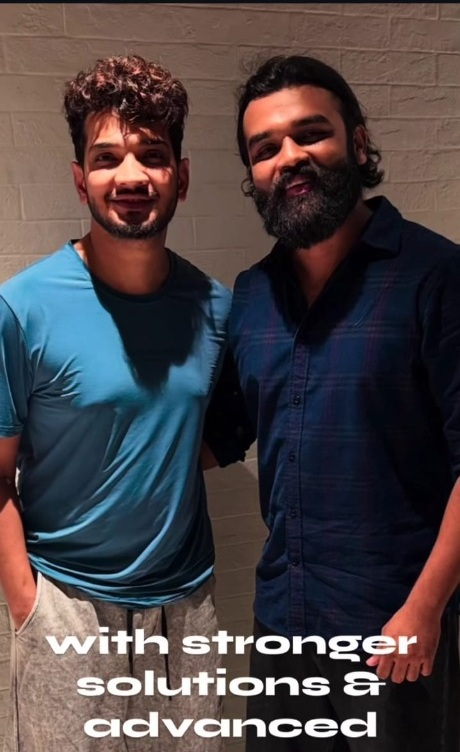
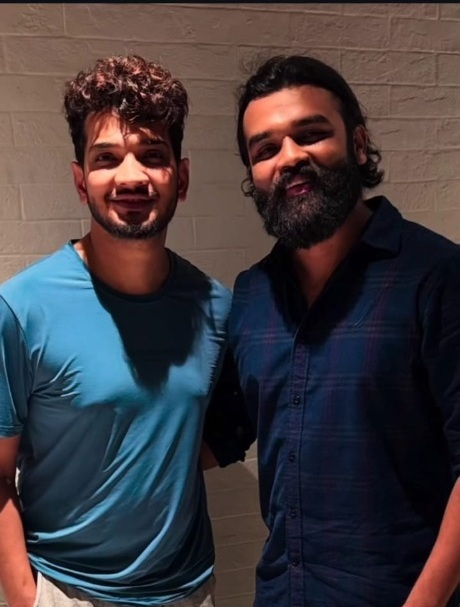
final

diff --git a/src/components/Outcomes.tsx b/src/components/Outcomes.tsx
@@ -11,7 +11,7 @@ export default function Outcomes() {
   ]
 
   return (
-    <section id="gallery" className="min-h-screen py-section-gap px-container-margin bg-surface">
+    <section id="gallery" className="min-h-screen py-section-gap px-4 sm:px-container-margin bg-surface">
       <div className="grid grid-cols-12 gap-gutter max-w-[1600px] mx-auto w-full">
         
         {/* Content Side */}
@@ -45,8 +45,8 @@ export default function Outcomes() {
         </div>
 
         {/* Mosaic Masked Grid Side */}
-        <div className="col-span-12 lg:col-span-8 lg:pl-12 mt-12 lg:mt-0">
-          <div className="grid grid-cols-2 gap-unit h-[600px] lg:h-[819px] relative">
+        <div className="col-span-12 lg:col-span-8 lg:pl-12 mt-10 lg:mt-0">
+          <div className="grid grid-cols-1 md:grid-cols-2 gap-3 md:gap-unit h-auto md:h-[600px] lg:h-[819px] relative">
             
             {/* Main Window */}
             <motion.div 
@@ -54,7 +54,7 @@ export default function Outcomes() {
               whileInView={{ opacity: 1, scale: 1 }}
               viewport={{ once: true }}
               transition={{ duration: 0.7, delay: 0.2 }}
-              className="bg-surface relative overflow-hidden col-span-2 md:col-span-1 border border-outline-variant/20 group"
+              className="bg-surface relative overflow-hidden col-span-1 border border-outline-variant/20 group h-[250px] md:h-auto"
             >
               <div 
                 className="w-full h-full bg-cover bg-center transform group-hover:scale-105 transition-transform duration-1000"
@@ -67,13 +67,13 @@ export default function Outcomes() {
             </motion.div>
 
             {/* Side Grid Stack */}
-            <div className="grid grid-rows-2 gap-unit h-full col-span-2 md:col-span-1">
+            <div className="grid grid-rows-2 gap-3 md:gap-unit h-auto md:h-full col-span-1">
               <motion.div 
                 initial={{ opacity: 0, y: 30 }}
                 whileInView={{ opacity: 1, y: 0 }}
                 viewport={{ once: true }}
                 transition={{ duration: 0.6, delay: 0.3 }}
-                className="bg-surface relative overflow-hidden border border-outline-variant/20 group"
+                className="bg-surface relative overflow-hidden border border-outline-variant/20 group min-h-[200px] md:min-h-0"
               >
                 <div 
                   className="w-full h-full bg-cover bg-center grayscale opacity-80 group-hover:grayscale-0 group-hover:opacity-100 transition-all duration-700" 
@@ -87,7 +87,7 @@ export default function Outcomes() {
                 whileInView={{ opacity: 1, y: 0 }}
                 viewport={{ once: true }}
                 transition={{ duration: 0.6, delay: 0.4 }}
-                className="bg-surface-container-lowest relative overflow-hidden border border-outline-variant/20 flex items-center justify-center p-8 text-center group hover:bg-surface-container-high transition-colors duration-300"
+                className="bg-surface-container-lowest relative overflow-hidden border border-outline-variant/20 flex items-center justify-center p-6 md:p-8 text-center group hover:bg-surface-container-high transition-colors duration-300 min-h-[180px] md:min-h-0"
               >
                 <div>
                   <Activity className="w-12 h-12 text-primary mb-4 mx-auto opacity-70 group-hover:opacity-100 group-hover:scale-110 transition-all duration-300" strokeWidth={1} />

diff --git a/src/components/Hero.tsx b/src/components/Hero.tsx
@@ -13,7 +13,7 @@ export default function Hero() {
   ]
 
   return (
-    <section id="services" className="min-h-screen relative flex flex-col justify-between pt-32 pb-container-margin px-container-margin overflow-hidden">
+    <section id="services" className="min-h-screen relative flex flex-col justify-between pt-24 md:pt-32 pb-container-margin px-4 sm:px-container-margin overflow-hidden">
       {/* Background Image with Parallax */}
       <div className="absolute inset-0 z-0">
     <motion.div style={{ y }} className="absolute inset-0 w-full h-[120%]">
@@ -27,8 +27,8 @@ export default function Hero() {
       
       {/* Overlay */}
       
-      <div className="relative z-10 grid grid-cols-12 gap-gutter mt-16 md:mt-32 max-w-[1600px] mx-auto w-full">
-        <div className="col-span-12 md:col-span-8 lg:col-span-6">
+      <div className="relative z-10 grid grid-cols-1 md:grid-cols-12 gap-gutter mt-12 md:mt-32 max-w-[1600px] mx-auto w-full">
+        <div className="col-span-1 md:col-span-8 lg:col-span-6">
           <motion.div
             initial={{ opacity: 0, y: 30 }}
             animate={{ opacity: 1, y: 0 }}
@@ -46,7 +46,7 @@ export default function Hero() {
       </div>
 
       {/* Bento Grid Features */}
-       <div className="relative z-10 grid grid-cols-1 md:grid-cols-3 gap-unit mt-16 max-w-[1600px] mx-auto w-full">
+       <div className="relative z-10 grid grid-cols-1 md:grid-cols-3 gap-3 md:gap-unit mt-12 md:mt-16 max-w-[1600px] mx-auto w-full">
         {features.map((feature, idx) => (
           <motion.div
             key={feature.number}
@@ -54,7 +54,7 @@ export default function Hero() {
             whileInView={{ opacity: 1, y: 0 }}
             viewport={{ once: true }}
             transition={{ delay: 0.4 + idx * 0.1, duration: 0.6 }}
-            className="glass-panel p-6 border border-outline-variant/30 flex justify-between items-end h-32 hover:bg-surface-container-high transition-colors group cursor-pointer"
+            className="glass-panel p-4 md:p-6 border border-outline-variant/30 flex justify-between items-end h-24 md:h-32 hover:bg-surface-container-high transition-colors group cursor-pointer"
           >
             <div>
               <span className="block font-label-caps text-on-surface-variant mb-2">{feature.number}</span>

diff --git a/src/components/About.tsx b/src/components/About.tsx
@@ -5,7 +5,7 @@ import image2 from '../assets/image2.jpg'
 
 export default function About() {
   return (
-    <section id="about" className="min-h-screen relative py-section-gap px-container-margin flex flex-col justify-center bg-surface-container-lowest overflow-hidden">
+    <section id="about" className="min-h-screen relative py-section-gap px-4 sm:px-container-margin flex flex-col justify-center bg-surface-container-lowest overflow-hidden">
       <div className="grid grid-cols-12 gap-gutter relative z-10 max-w-[1600px] mx-auto w-full items-center">
         
         {/* Text Content */}
@@ -46,7 +46,7 @@ export default function About() {
         </div>
 
         {/* Overlapping Images */}
-        <div className="col-span-12 lg:col-span-6 relative order-1 lg:order-2 h-[500px] lg:h-[700px]">
+        <div className="col-span-12 lg:col-span-6 relative order-1 lg:order-2 h-[450px] sm:h-[500px] lg:h-[700px]">
           <motion.div
             initial={{ opacity: 0, scale: 0.95 }}
             whileInView={{ opacity: 1, scale: 1 }}

diff --git a/src/components/Navbar.tsx b/src/components/Navbar.tsx
@@ -32,7 +32,7 @@ export default function Navbar() {
             : "bg-transparent border-transparent py-5"
         )}
       >
-        <div className="flex justify-between items-center px-container-margin w-full max-w-[1600px] mx-auto">
+        <div className="flex justify-between items-center px-4 sm:px-container-margin w-full max-w-[1600px] mx-auto">
           <a
             href="#"
             className="font-headline-md text-headline-md leading-tight font-bold tracking-tighter text-primary"
@@ -53,7 +53,7 @@ export default function Navbar() {
             ))}
           </div>
 
-          <div className="flex items-center gap-6">
+          <div className="flex items-center gap-4 md:gap-6">
             <a
               href="#contact"
               className="hidden lg:block font-label-caps text-label-caps text-on-surface-variant hover:text-primary transition-colors duration-300 uppercase"

diff --git a/src/index.css b/src/index.css
@@ -38,7 +38,7 @@
 
 @layer components {
   .btn-primary {
-    @apply bg-primary text-on-primary border border-primary px-12 py-6 font-label-caps text-[0.75rem] font-bold tracking-[0.1em] transition-colors duration-300 uppercase;
+    @apply bg-primary text-on-primary border border-primary px-8 py-4 sm:px-12 sm:py-6 font-label-caps text-[0.75rem] font-bold tracking-[0.1em] transition-colors duration-300 uppercase;
   }
   
   .btn-primary:hover {
@@ -46,7 +46,7 @@
   }
   
   .btn-secondary {
-    @apply bg-transparent text-primary border border-primary px-12 py-6 font-label-caps text-[0.75rem] font-bold tracking-[0.1em] transition-colors duration-300 uppercase;
+    @apply bg-transparent text-primary border border-primary px-8 py-4 sm:px-12 sm:py-6 font-label-caps text-[0.75rem] font-bold tracking-[0.1em] transition-colors duration-300 uppercase;
   }
   
   .btn-secondary:hover {

diff --git a/src/components/Footer.tsx b/src/components/Footer.tsx
@@ -1,7 +1,7 @@
 export default function Footer() {
   return (
     <footer id="contact" className="bg-surface-container-low border-t border-outline-variant/30 py-12 w-full">
-      <div className="flex flex-col md:flex-row justify-between items-center px-container-margin gap-gutter max-w-[1600px] mx-auto">
+      <div className="flex flex-col md:flex-row justify-between items-center px-4 sm:px-container-margin gap-4 md:gap-gutter max-w-[1600px] mx-auto">
         
         <div className="font-label-caps text-primary mb-4 md:mb-0 uppercase tracking-widest text-lg">
           The SpineWala Clinic
